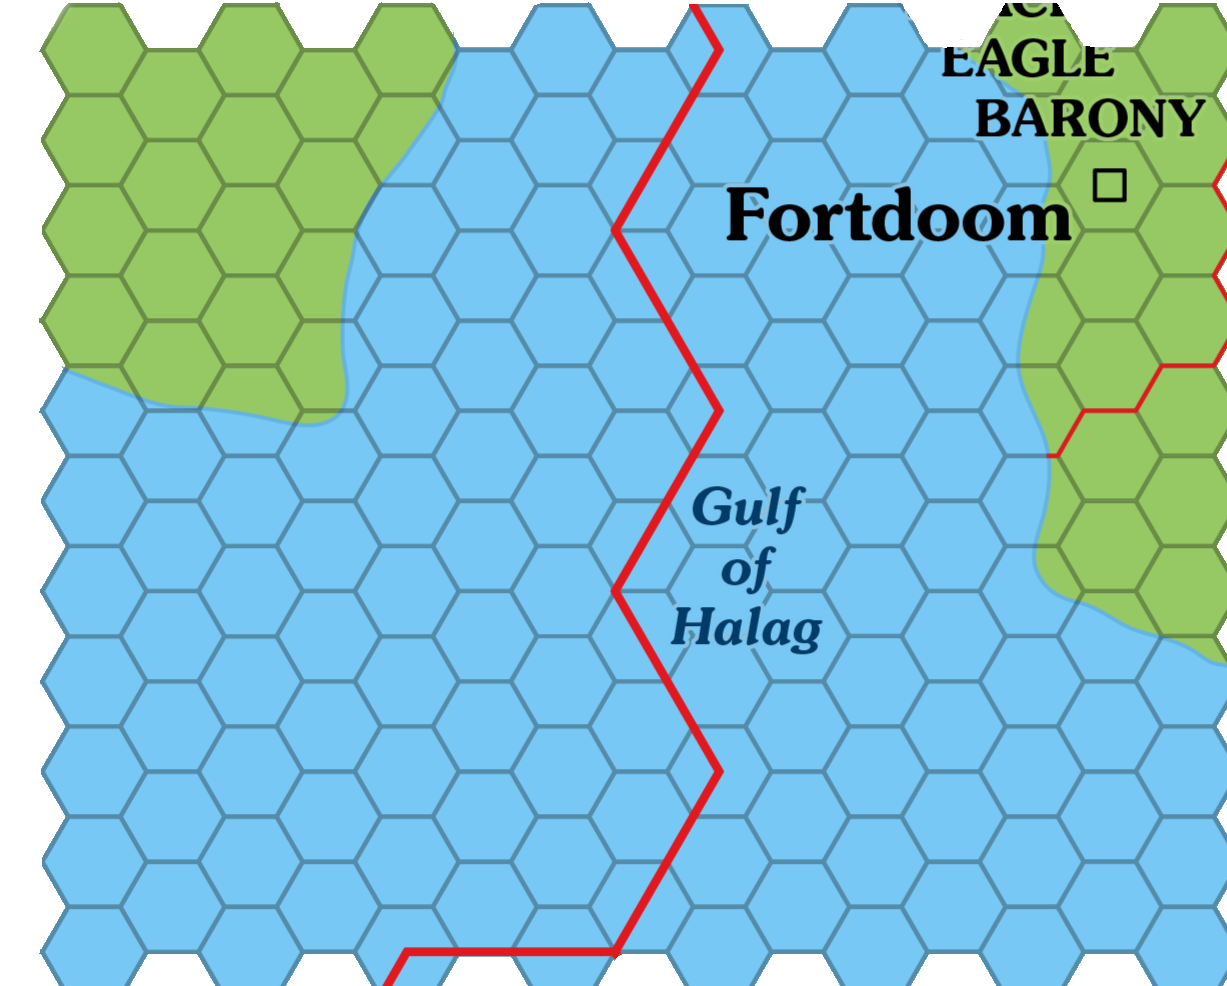
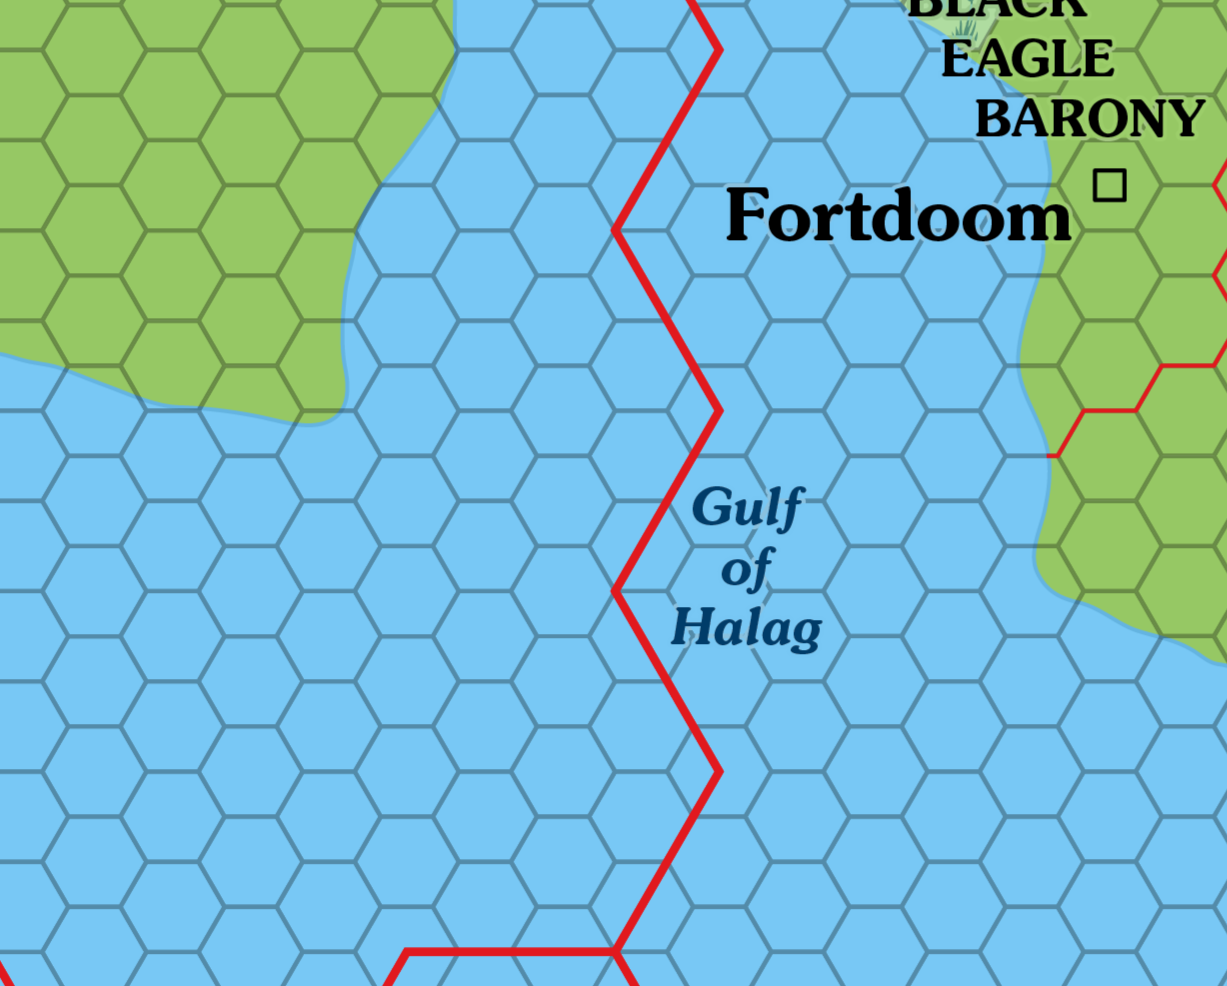
Fixed a bug related to the mask used for importing

diff --git a/atlas_of_mystara/src/ProcessMap.js b/atlas_of_mystara/src/ProcessMap.js
@@ -106,9 +106,10 @@ const ProcessMap = ({ uploadedImage, mapName, mapAuthor, onConfirm, onBack }) =>
               }}
             >
               <img
+                className="hexmask-image-overlay"
                 src={`/resources/HexMapGrid/hexmapMask_${hexMaskType.charAt(0).toUpperCase() + hexMaskType.slice(1)}_${columns}_${lines}.png`}
                 alt={`Hex Grid Mask ${hexMaskType} x:${columns} y:${lines} not found`}
-                style={{ width: '100%', height: '100%', zIndex:9999 }}
+                style={{ width: '100%', height: '100%'}}
               />
             </Rnd>
           )}

diff --git a/atlas_of_mystara/src/ProcessMap.css b/atlas_of_mystara/src/ProcessMap.css
@@ -102,3 +102,14 @@
   margin-top: 10px;
   font-size: 1.2em;
 }
+
+
+.hexmask-image-overlay {
+  position: absolute;
+  top: 0;
+  left: 0;
+  width: 100%;
+  height: 100%;
+  z-index: 998; /* Ensures it is on top of everything */
+  pointer-events: none; /* Prevents interactions blocking hexagons */
+}
